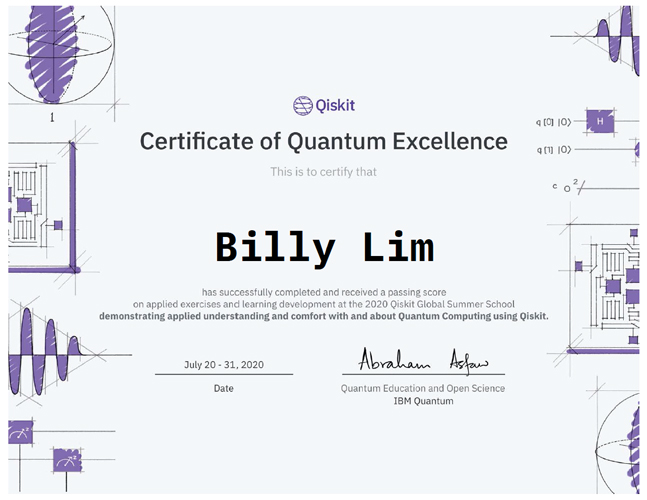
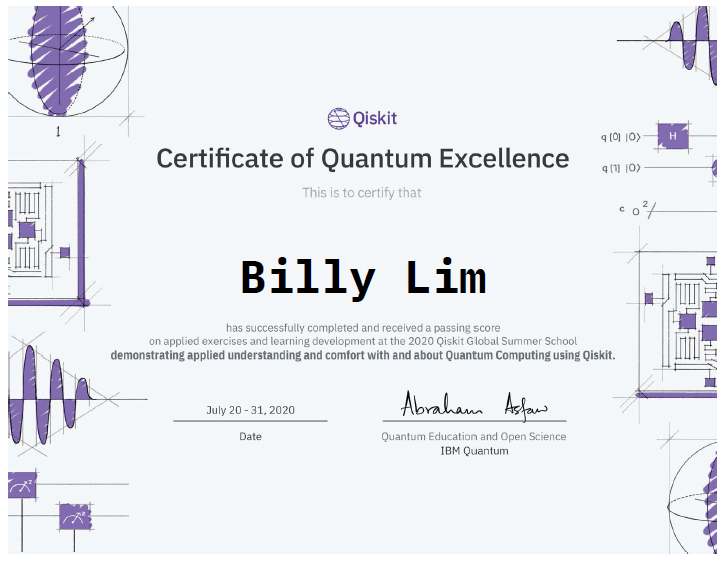
clean up

diff --git a/README.md b/README.md
@@ -1,14 +1,14 @@
 # Qiskit Global Summer School 2020
 
-These are the labs I did as part of the [Qiskit Global Summer School (QGSS)](https://qiskit.org/events/summer-school/)
-All the teaching material used is now available as a [Qiskit Course](https://qiskit.org/learn/intro-qc-qh/)
+These are the labs I did as part of the [Qiskit Global Summer School (QGSS)](https://qiskit.org/events/summer-school/)  
+All the teaching material used is now available as a [Qiskit Course](https://qiskit.org/learn/intro-qc-qh/)  
 
 ## Summer School Details
 __Site:__ [Qiskit](https://qiskit.org/events/summer-school/)  
 __Date:__ July 2020  
 
 ## Certificate
-![Quantum Excellence Certificate](QGSS_Certificate.jpg)  
+<img src="./QGSS_Certificate.jpg" alt="Quantum Excellence Certificate" height="300px">
 
 ## Description
 The labs are contained in `ex1.ipynb` in each folder.  
